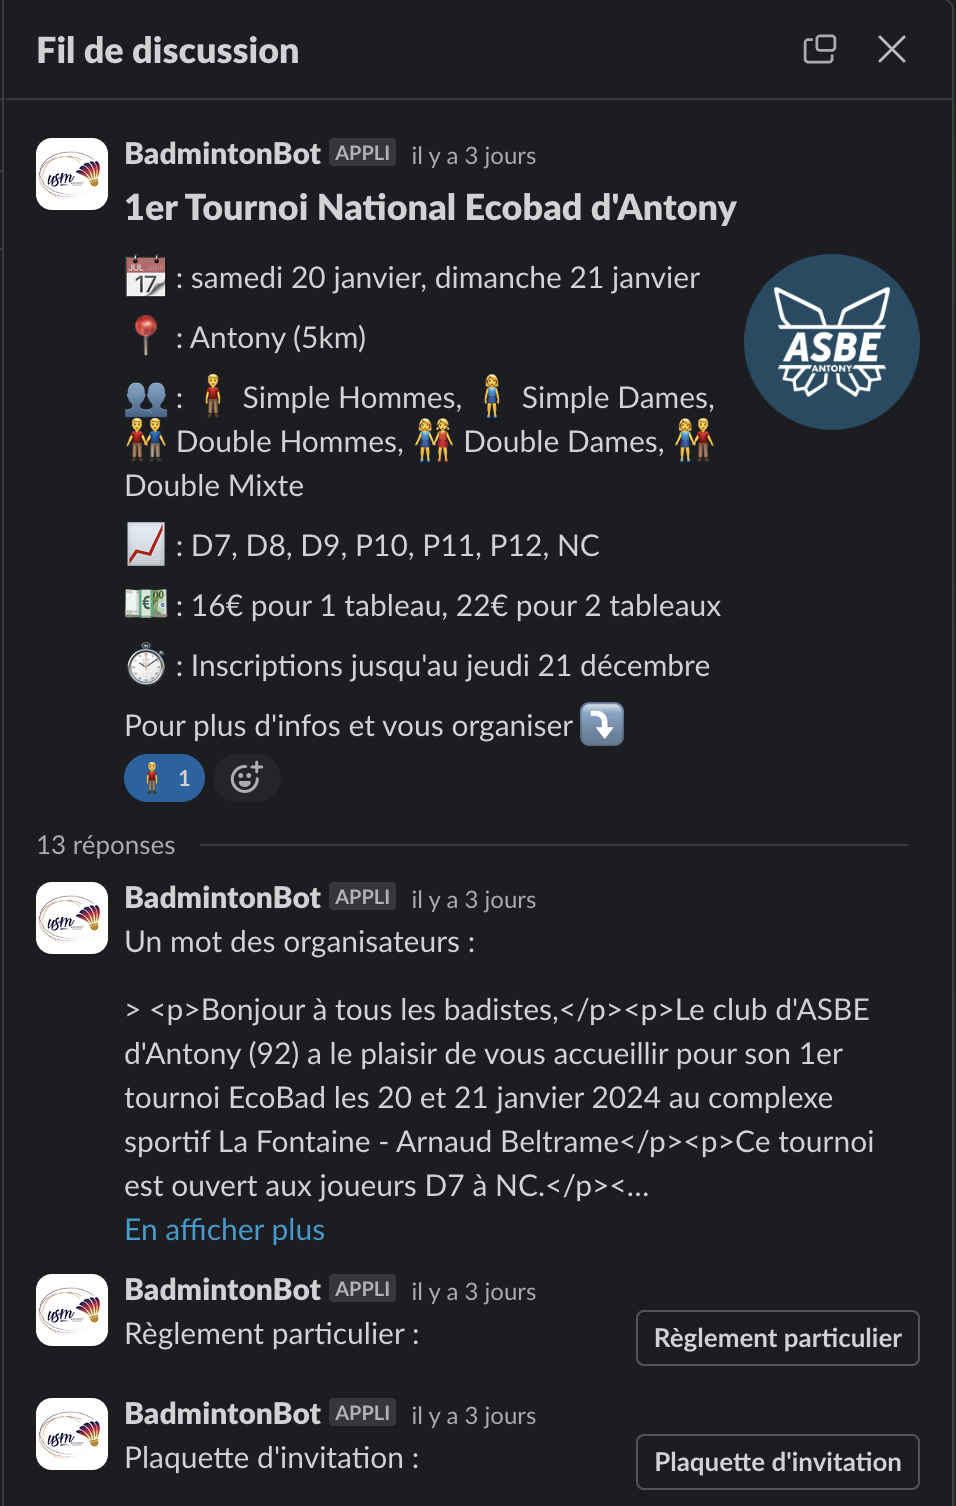
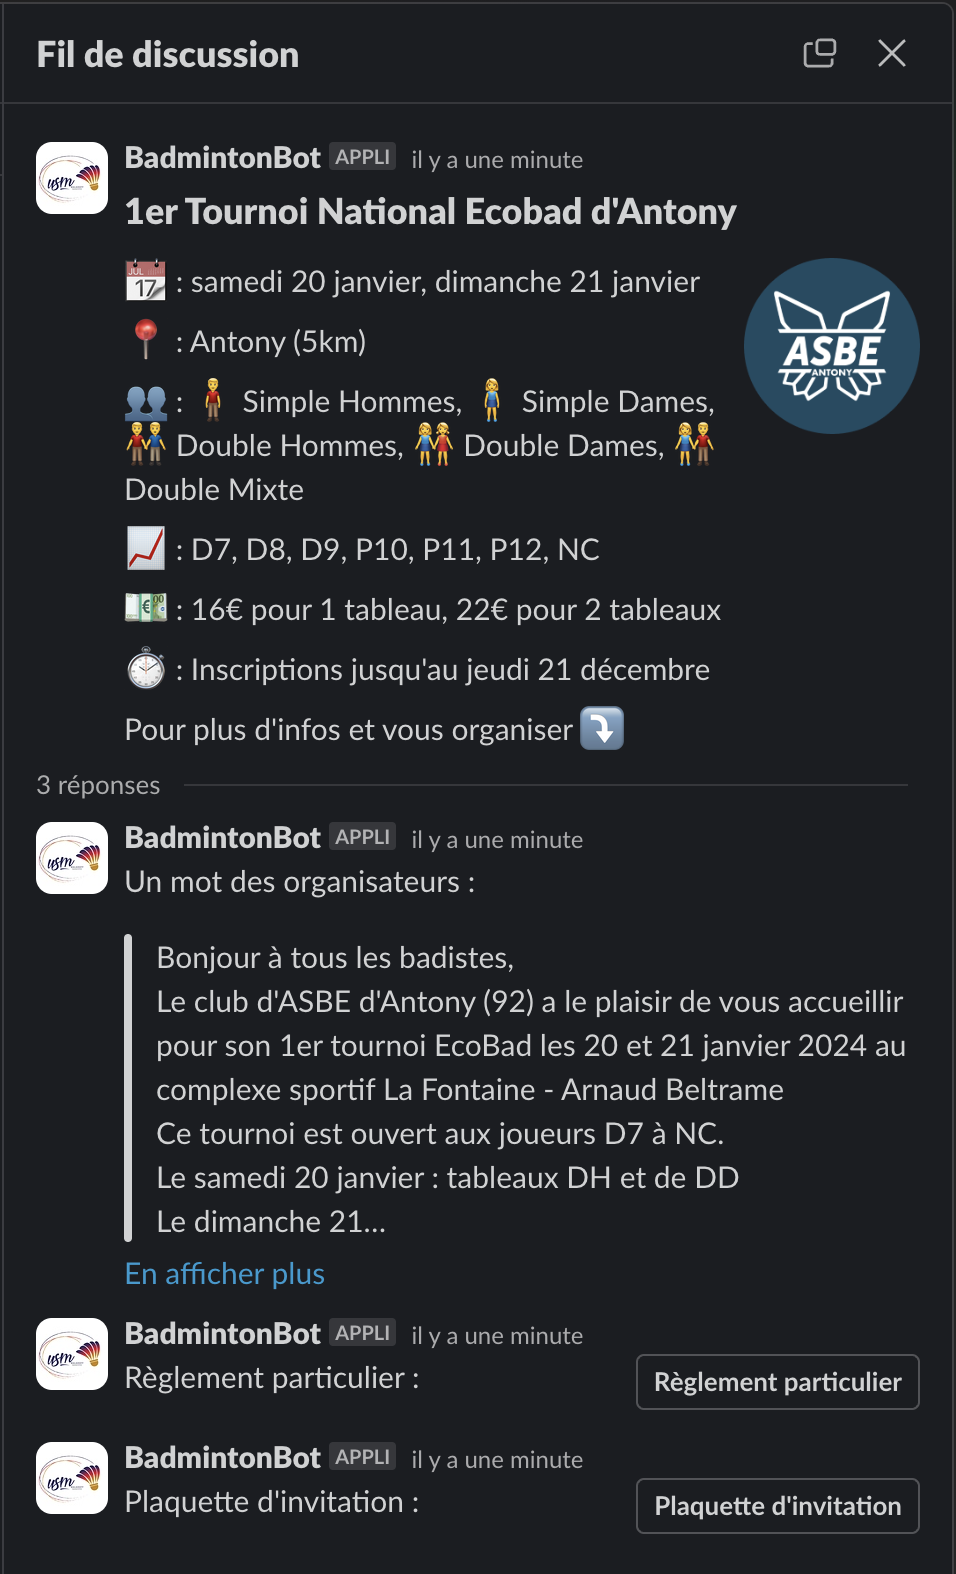
fix(organizer message): display message as a quote

diff --git a/src/main/kotlin/fr/amou/ffbad/tournaments/slack/bot/infra/driven/publication/SlackMessageBuilder.kt b/src/main/kotlin/fr/amou/ffbad/tournaments/slack/bot/infra/driven/publication/SlackMessageBuilder.kt
@@ -11,6 +11,9 @@ import fr.amou.ffbad.tournaments.slack.bot.domain.model.Disciplines
 import fr.amou.ffbad.tournaments.slack.bot.domain.model.Disciplines.*
 import fr.amou.ffbad.tournaments.slack.bot.domain.model.TournamentDocument
 import fr.amou.ffbad.tournaments.slack.bot.domain.model.TournamentInfo
+import org.jsoup.Jsoup
+import org.jsoup.nodes.Document.OutputSettings
+import org.jsoup.safety.Safelist
 import java.time.LocalDate
 import java.time.format.DateTimeFormatter.ofPattern
 import java.util.Locale.FRENCH
@@ -52,14 +55,27 @@ fun buildDocumentSlackMessage(document: TournamentDocument): List<LayoutBlock> {
 }
 
 fun buildDescriptionSlackMessage(description: String): List<LayoutBlock> {
+
+    val sanitizedDescription = sanitizeHTMLMessage(description)
     return listOf(
         SectionBlock.builder()
             .text(PlainTextObject.builder().text("Un mot des organisateurs : ").build())
             .build(),
         SectionBlock.builder()
-            .text(MarkdownTextObject.builder().text("> ${description.replace("\n", "\n> ")}").build())
+            .text(MarkdownTextObject.builder().text("> ${sanitizedDescription.replace("\n", "\n>")}").build())
             .build()
     )
+}
+
+fun sanitizeHTMLMessage(htmlMessage: String):String {
+    val jsoupDoc = Jsoup.parse(htmlMessage)
+    val outputSettings = OutputSettings()
+    outputSettings.prettyPrint(false)
+    jsoupDoc.outputSettings(outputSettings)
+    jsoupDoc.select("br").before("\\n")
+    jsoupDoc.select("p").before("\\n")
+    val str: String = jsoupDoc.text().replace("\\n", "\n").trim()
+    return Jsoup.clean(str, "", Safelist.none(), outputSettings)
 }
 
 fun LocalDate.toFrenchDate(): String = this.format(ofPattern("EEEE dd MMMM", FRENCH))
